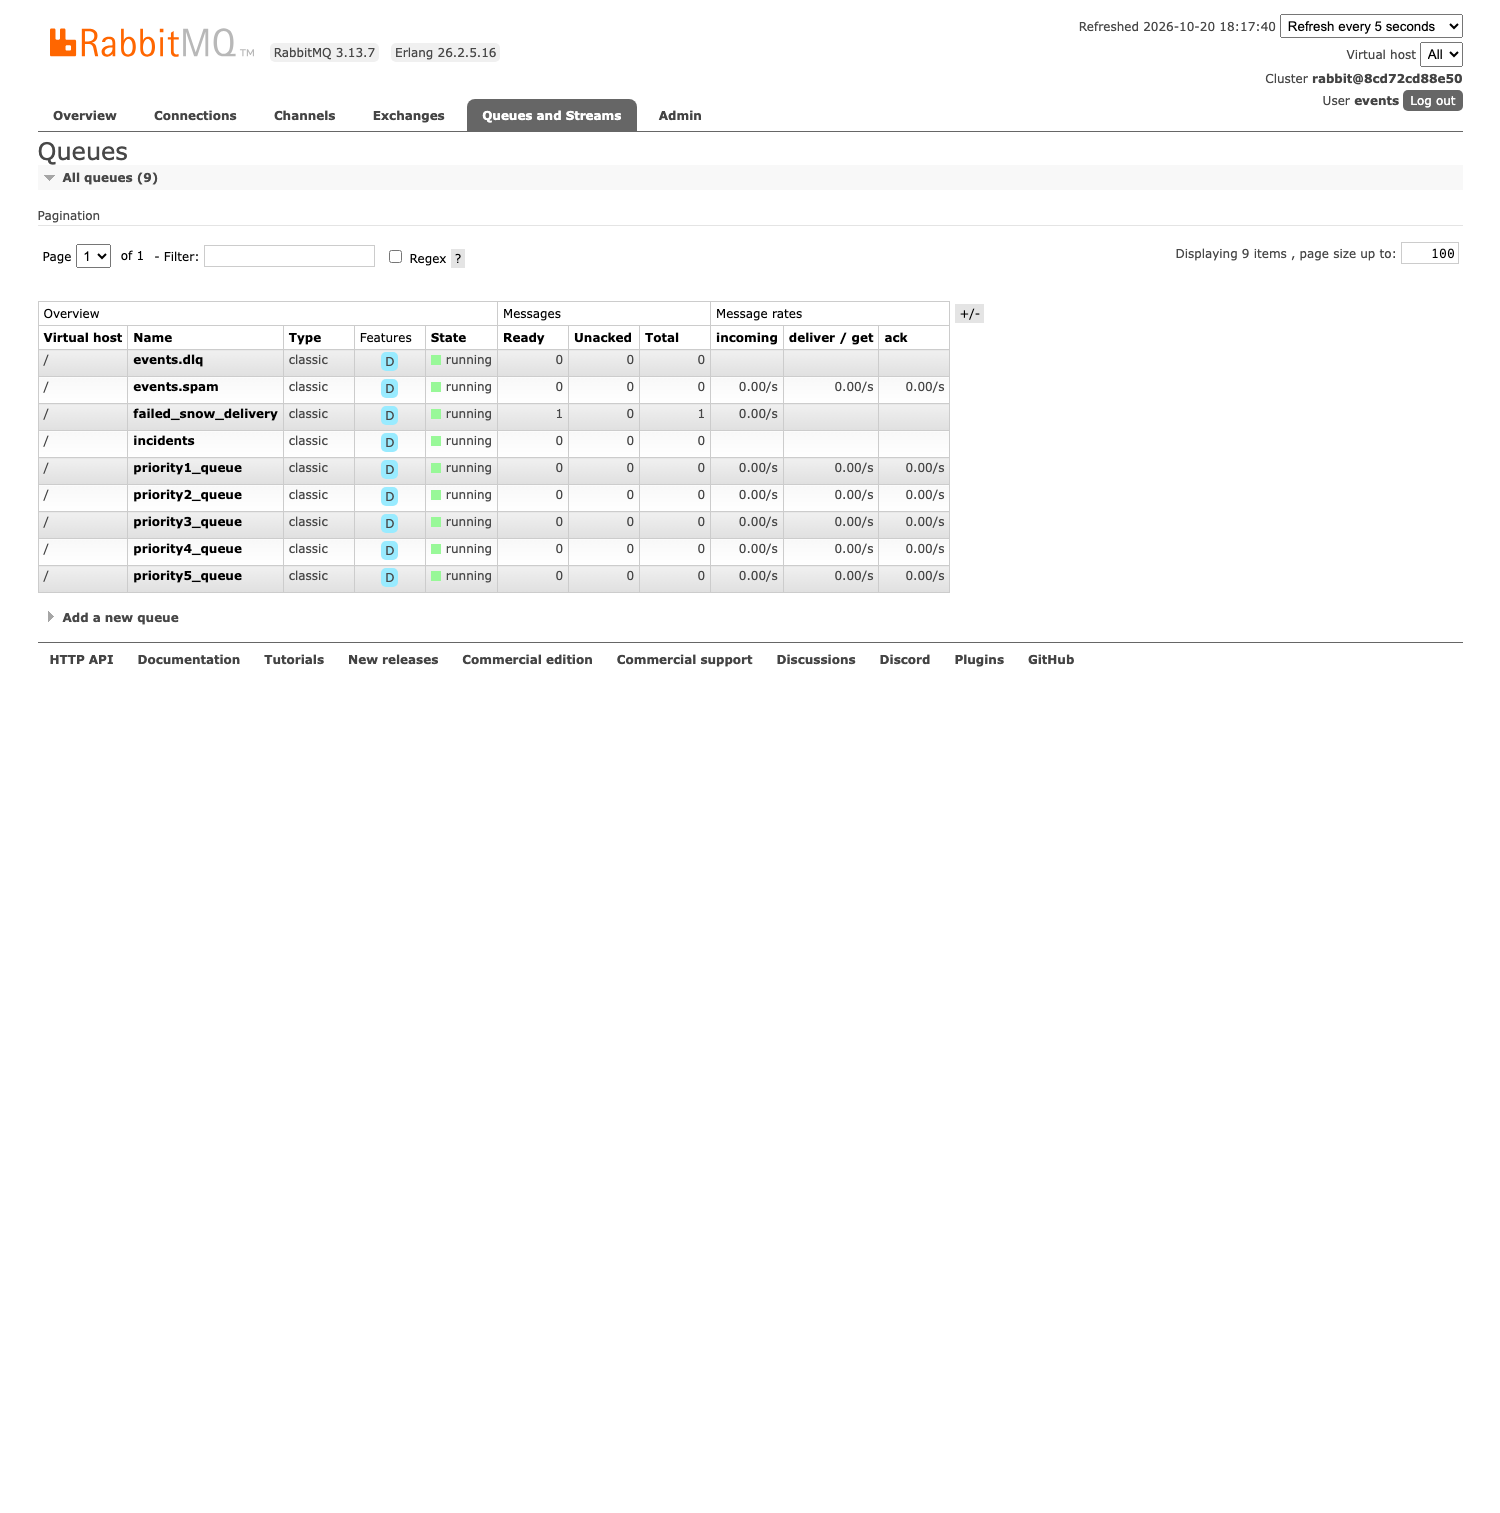
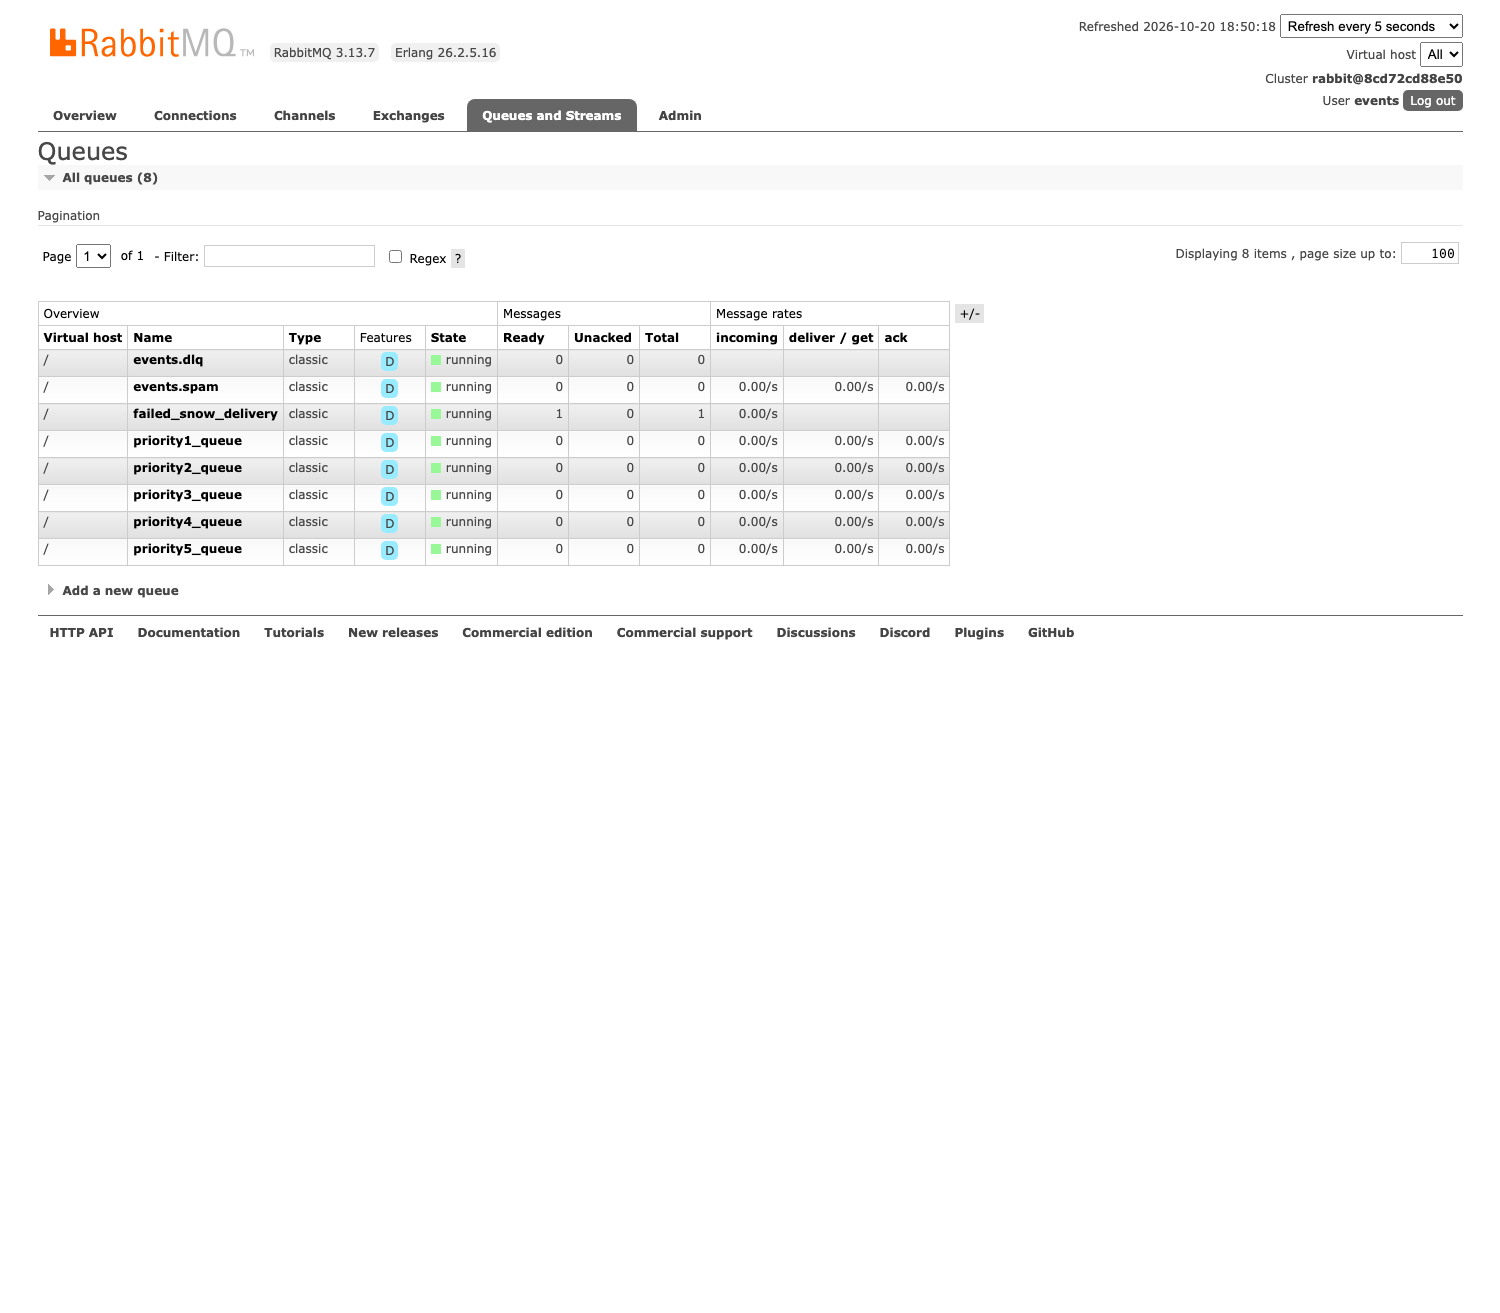
Document the block-list calls and refresh the queue screenshot.
The flow now shows the add, remove, and list responses, and the RabbitMQ picture no longer includes the removed incidents queue.

diff --git a/FLOW.md b/FLOW.md
@@ -39,7 +39,7 @@ The exchange is named `events` and it is direct. The routing key is the queue na
 | `failed_snow_delivery` | delivery service after the third failed ServiceNow call | nobody | The message stays on the queue, and the store keeps the same status. |
 | `events.dlq` | delivery service after the third failed mail attempt | nobody | The message stays on the queue. |
 
-The screenshot shows the queues. Priority queues and `events.spam` have a delivery-service consumer. `failed_snow_delivery` and `events.dlq` have none. One message sits in `failed_snow_delivery` from a call ServiceNow did not accept.
+The screenshot shows the eight queues. Priority queues and `events.spam` have a delivery-service consumer. `failed_snow_delivery` and `events.dlq` have none. One message sits in `failed_snow_delivery` from a call ServiceNow did not accept.
 
 ![Queues in RabbitMQ](docs/images/rabbitmq.png)
 
@@ -196,7 +196,9 @@ The 202 response is the stored message. The same shape sits in the store, on the
 
 `status` then becomes `sent`, `not_processed`, or `failed_snow_delivery`. `trace` is filled for an event that went through the agent. It stays empty for a blocked user.
 
-Adding a user to the block list:
+These three calls go to the intake service. They use `X-API-Key` when `API_KEY` is set. A missing or wrong key is 401. A missing or blank `uuid` on the two POST calls is 400.
+
+Add a user:
 
 ```http
 POST /add_spammer
@@ -206,7 +208,57 @@ X-API-Key: <key>
 {"uuid":"<user uuid>","username":"<username>"}
 ```
 
-The response is 201. An empty UUID is 400. A wrong key is 401. `POST /remove_spammer` needs only `uuid` and returns 200.
+```http
+HTTP/1.1 201 Created
+Content-Type: application/json
+
+{"uuid":"<user uuid>","username":"<username>"}
+```
+
+Calling it again for the same UUID updates the username and still returns 201 with the same shape. When `username` is left out, the response has `"username": null`.
+
+Remove a user:
+
+```http
+POST /remove_spammer
+Content-Type: application/json
+X-API-Key: <key>
+
+{"uuid":"<user uuid>"}
+```
+
+```http
+HTTP/1.1 200 OK
+Content-Type: application/json
+
+{"uuid":"<user uuid>"}
+```
+
+The same 200 is returned when that UUID was not on the list.
+
+List the blocked users:
+
+```http
+GET /list_spammers
+X-API-Key: <key>
+```
+
+```http
+HTTP/1.1 200 OK
+Content-Type: application/json
+
+{
+  "spammers": [
+    {
+      "uuid": "<user uuid>",
+      "username": "<username>",
+      "created_at": "<time>"
+    }
+  ]
+}
+```
+
+An empty list is `{"spammers": []}`.
 
 A successful scripted API call in ServiceNow is 201 and a body with the event number. When the body has no number, the message stores `accepted`.
 
